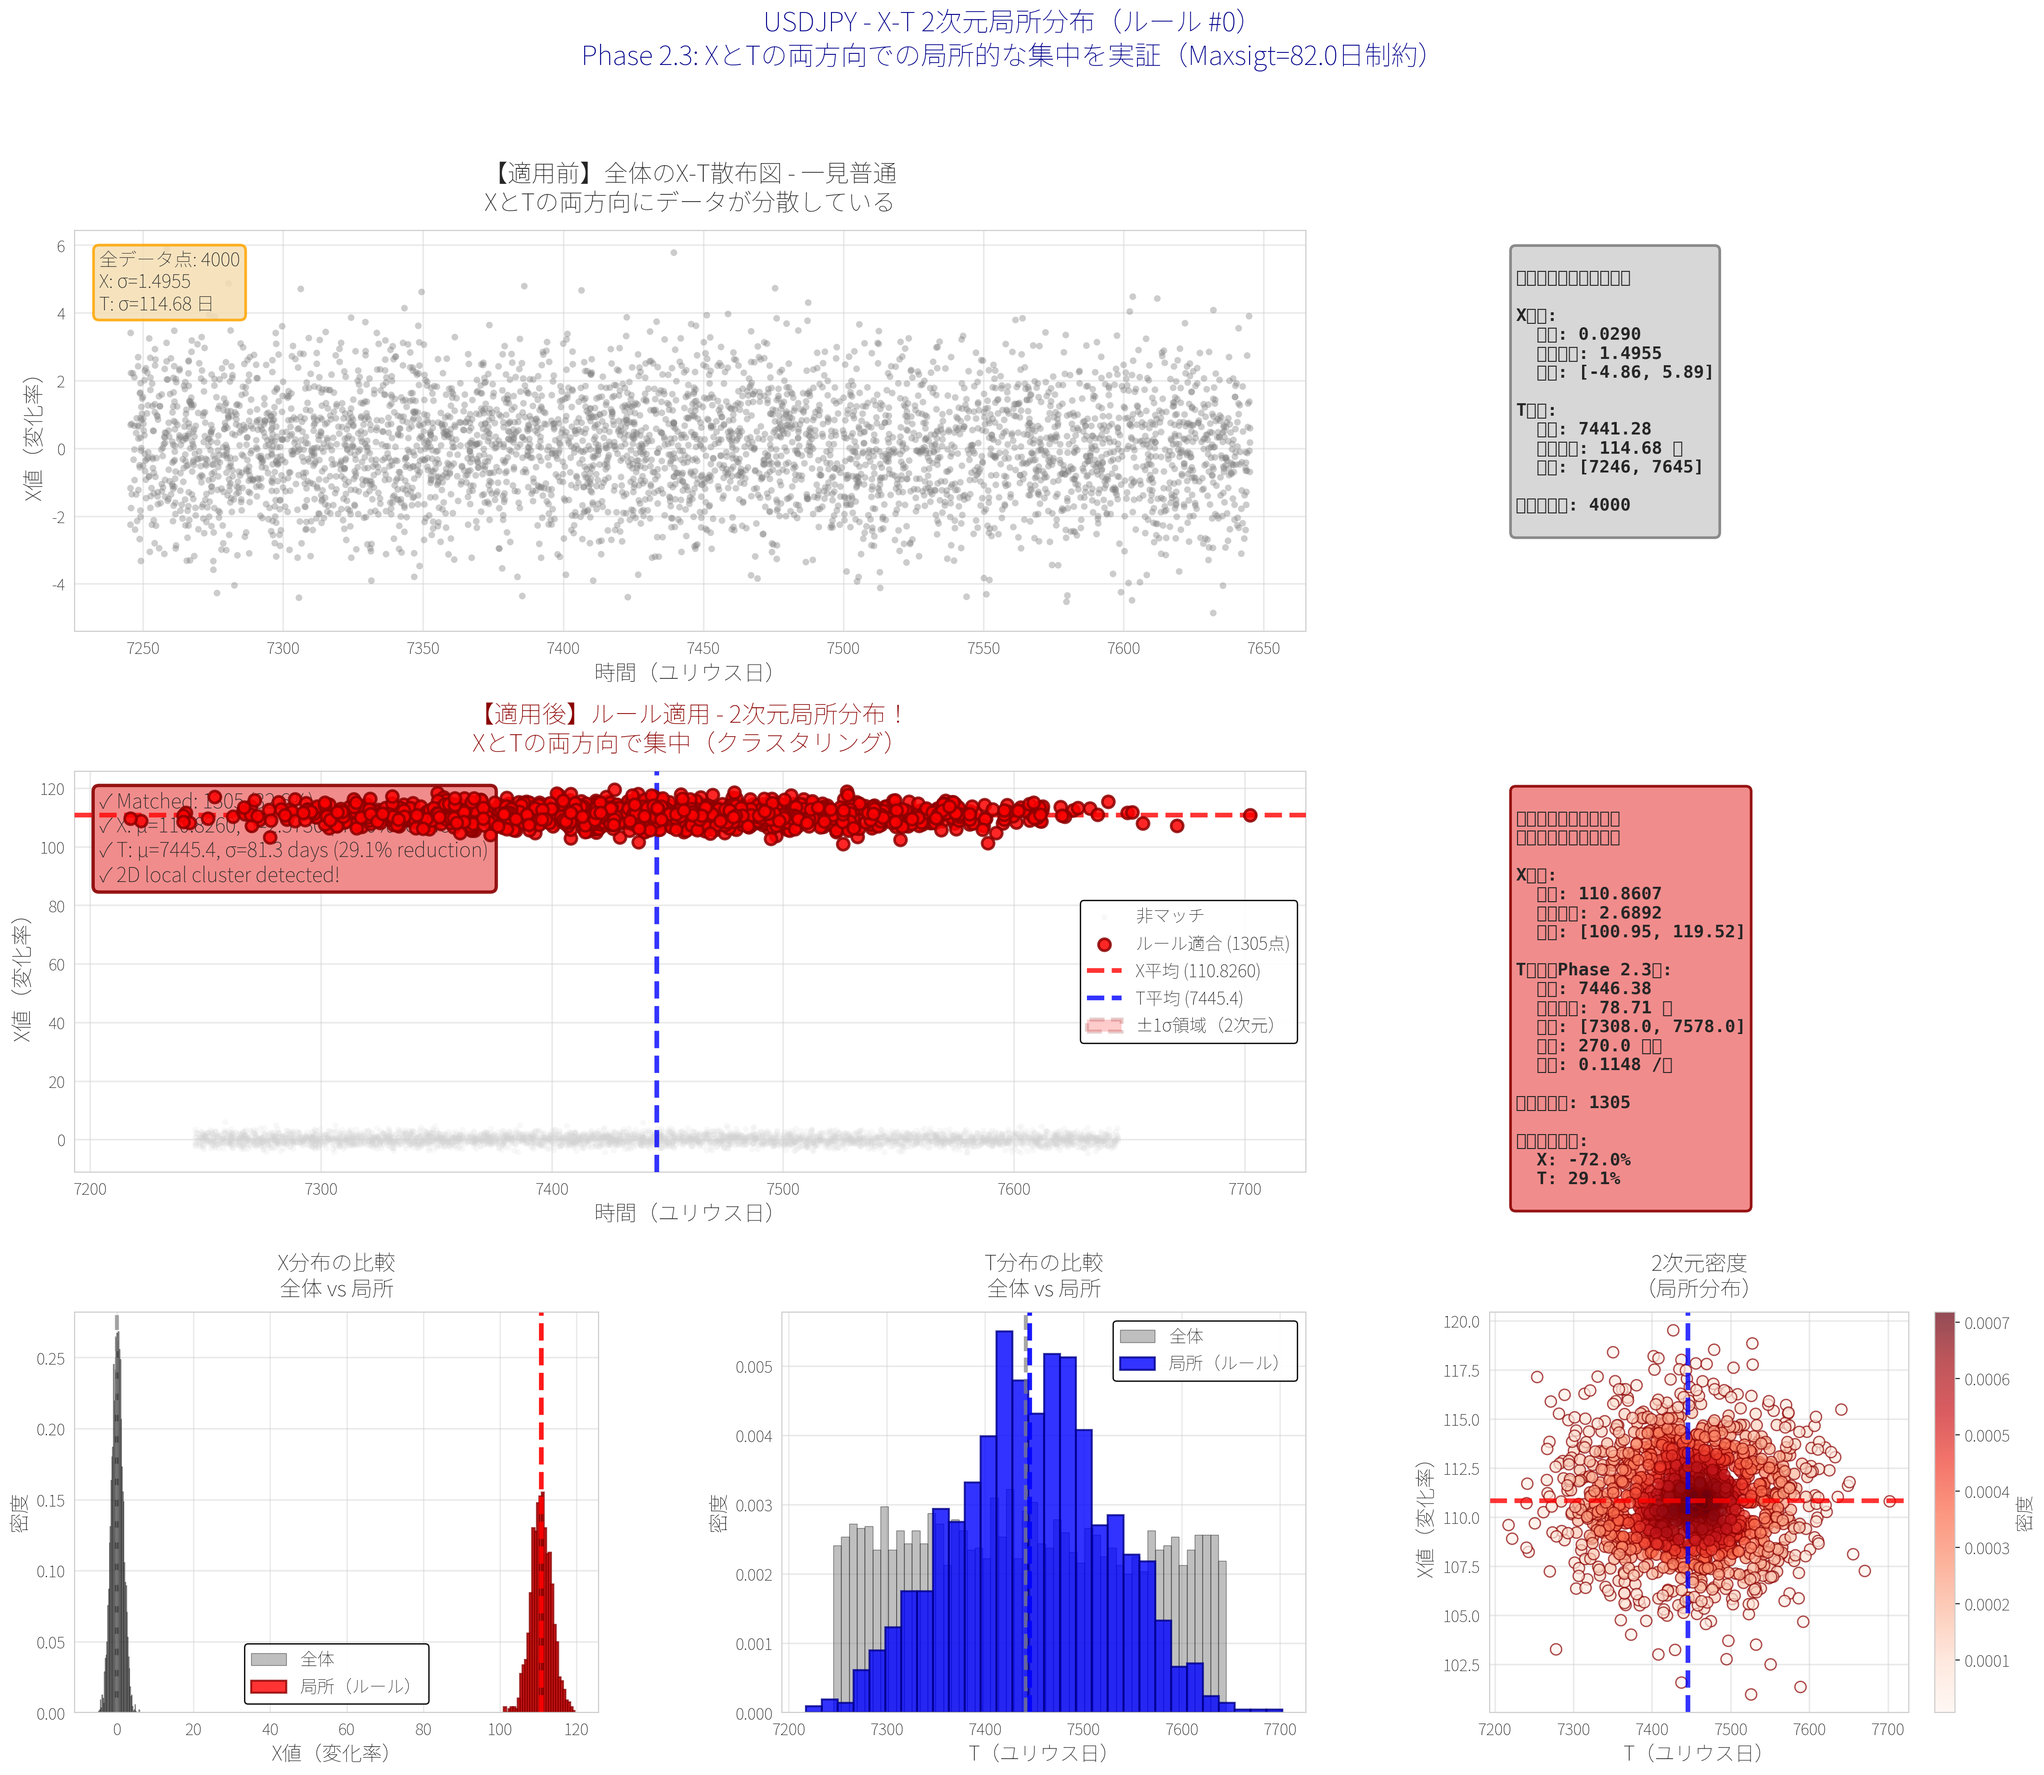
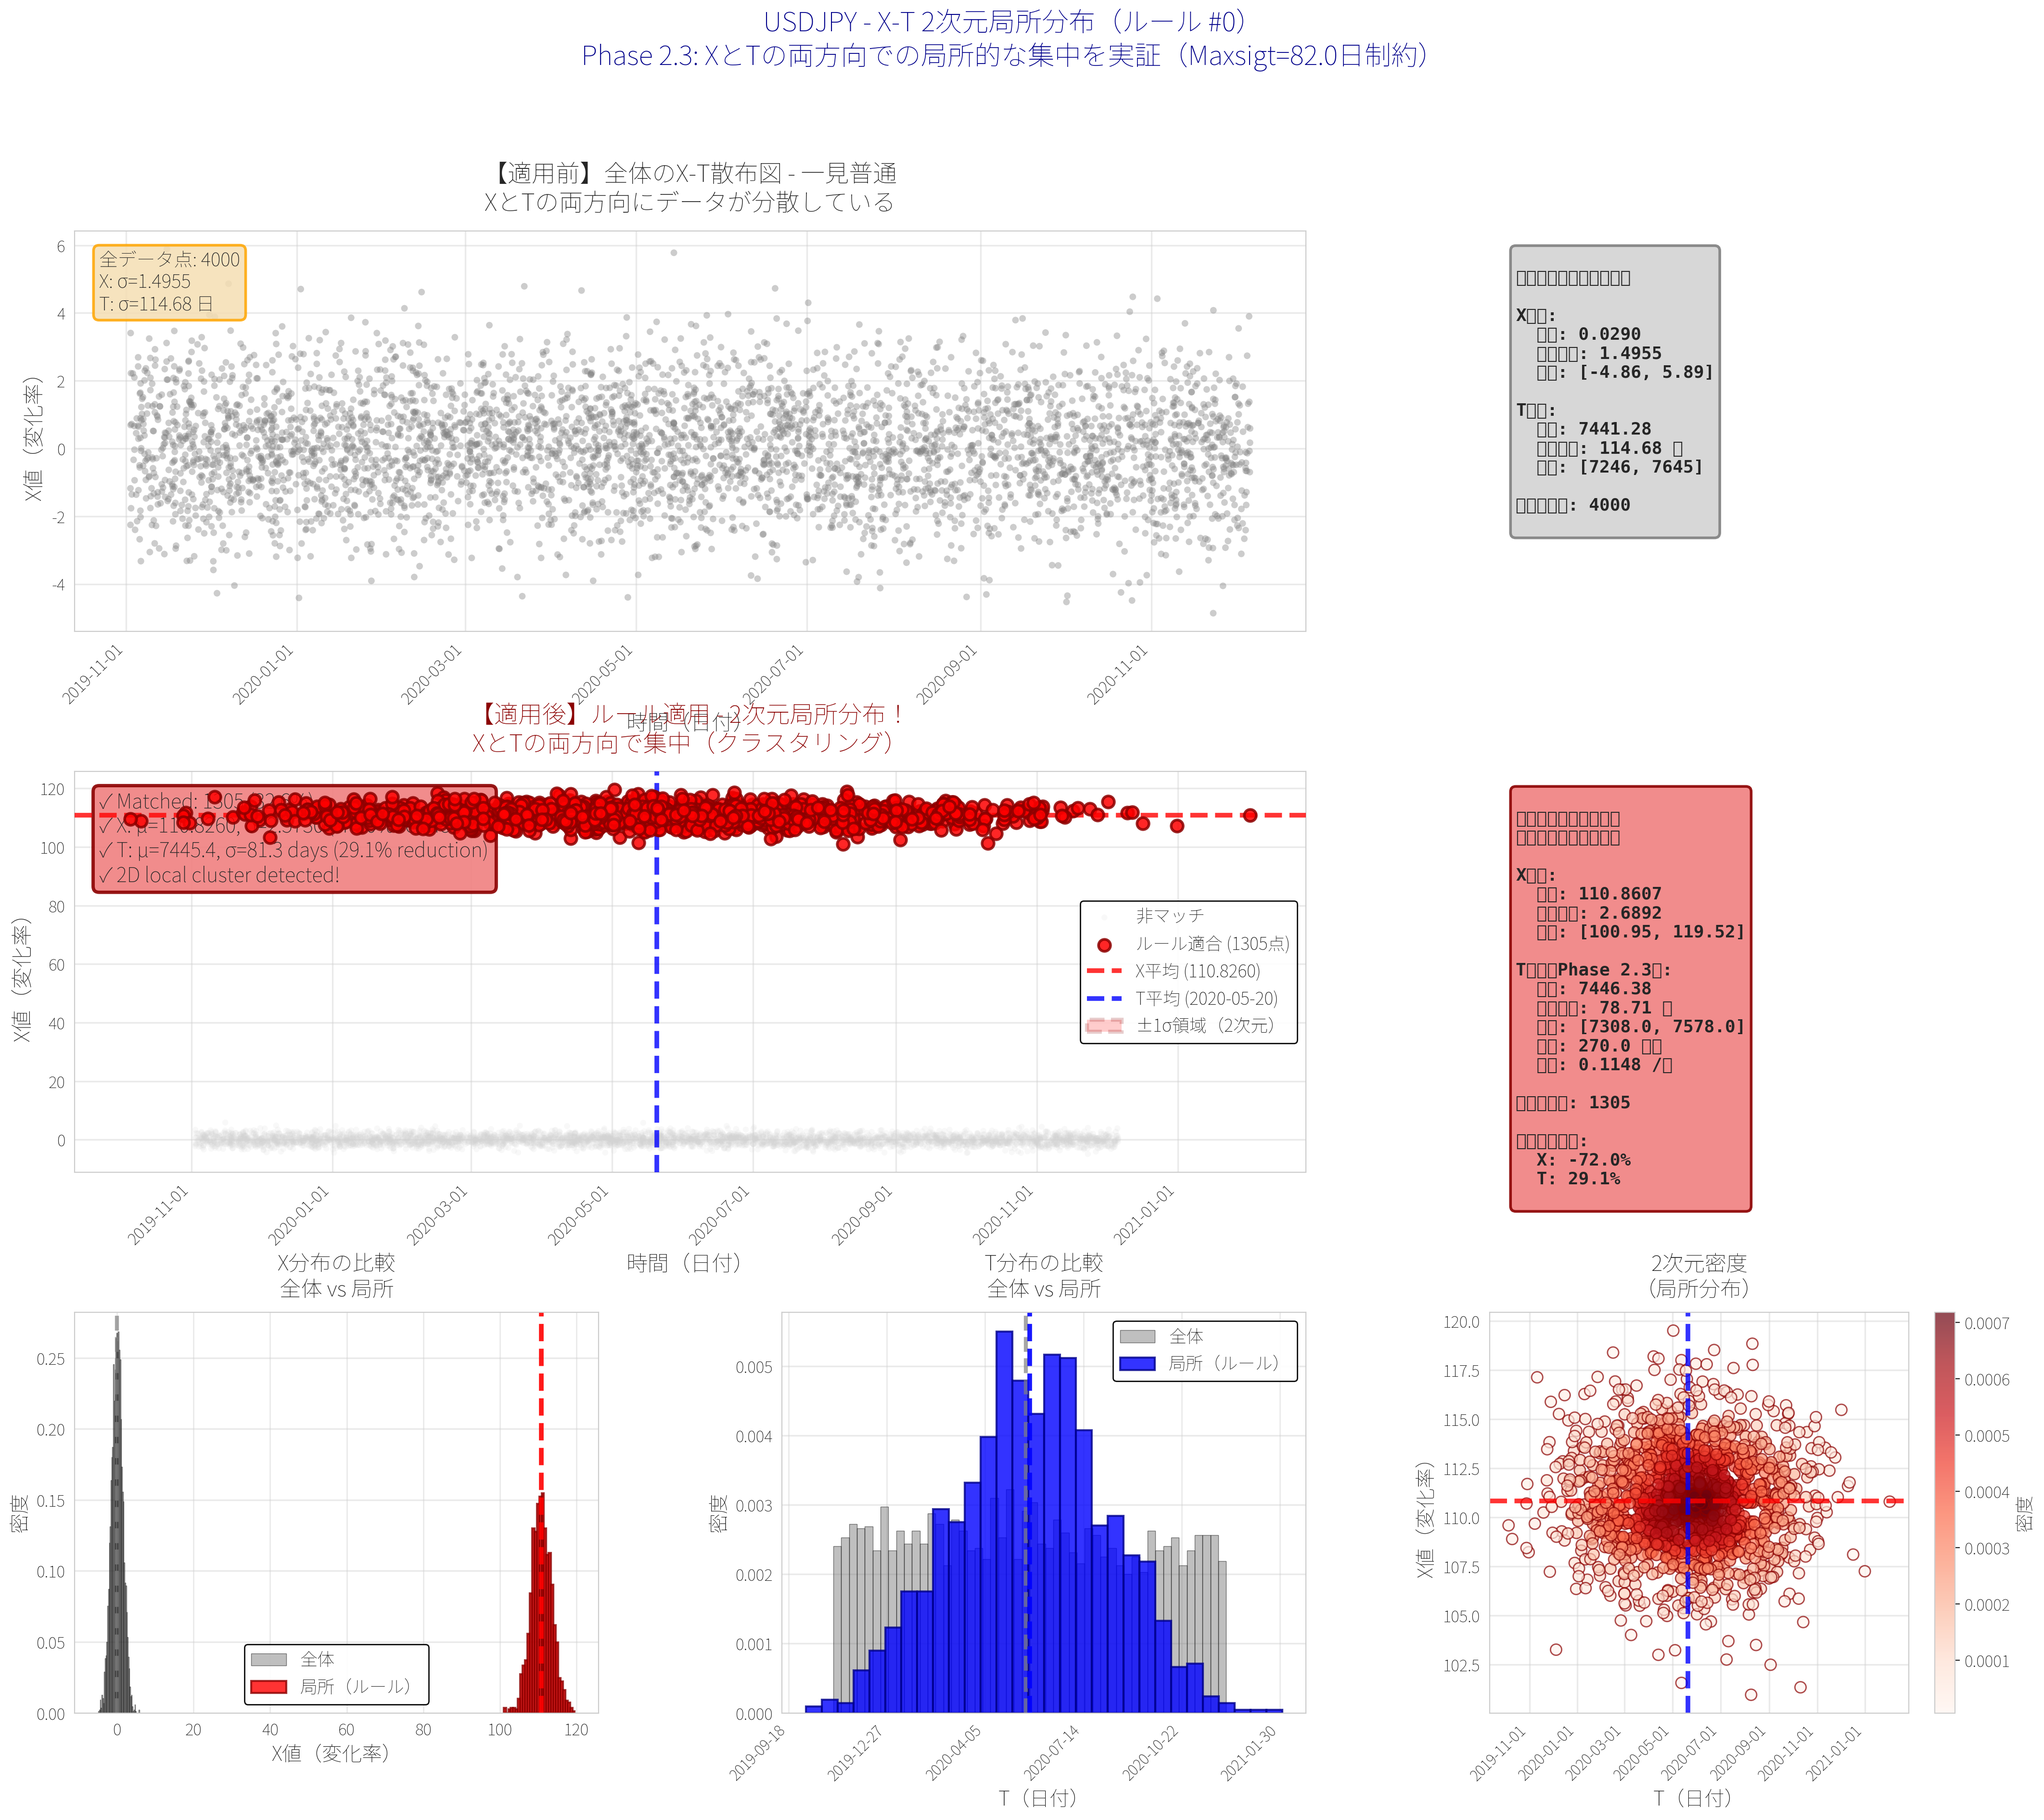
改善：T軸を日付形式に変更（ラベル重複防止対応）
## 実装内容

### 1. 日付変換関数の追加
**新規関数**:
- `julian_to_datetime(julian_day)`: Julian日をdatetimeオブジェクトに正確変換
- `julian_array_to_datetime(julian_array)`: 配列一括変換

**変換ロジック**:
```python
base_date = datetime(2000, 1, 1)
return base_date + timedelta(days=julian_day)
```

### 2. T軸の日付フォーマット適用

**対象グラフ（4つ）**:

**① 全体のX-T散布図（ax1）**:
- X軸: Julian日 → 日付オブジェクト
- ラベル: `%Y-%m-%d` 形式（例: 2020-01-01）
- 間隔: 2ヶ月ごと
- 回転: 45度、右寄せ

**② ルール適用後のX-T散布図（ax3）**:
- X軸: 日付オブジェクト
- 楕円の中心: `mdates.date2num()`で数値変換
- 平均線: datetimeオブジェクト
- ラベル: `%Y-%m-%d` 形式

**③ Tの分布比較（ax6）**:
- ヒストグラムは内部でJulian日使用
- X軸ラベルのみ日付形式に変換
- 動的に目盛り位置を日付に変換

**④ 2次元密度プロット（ax7）**:
- scatter: 日付オブジェクト
- 平均線: datetime
- ラベル: `%Y-%m-%d` 形式

### 3. ラベル重複防止設定

**すべての日付軸で適用**:
```python
# フォーマット設定
ax.xaxis.set_major_formatter(mdates.DateFormatter('%Y-%m-%d'))
ax.xaxis.set_major_locator(mdates.MonthLocator(interval=2))

# ラベル重複防止（45度回転、右寄せ）
plt.setp(ax.xaxis.get_majorticklabels(),
         rotation=45, ha='right', fontsize=12)
```

**効果**:
- ラベルが斜めに表示され重ならない
- 右寄せで見やすい配置
- フォントサイズ12で読みやすい

### 4. 軸ラベルの更新

**Before**: 時間（ユリウス日）、T（ユリウス日）
**After**: 時間（日付）、T（日付）

より直感的で分かりやすい表記に変更。

## 視覚的改善

**Before（ユリウス日表示）**:
```
7200  7300  7400  7500  7600
```
→ 数値だけで直感的に理解しにくい

**After（日付表示）**:
```
2019-11-01  2020-01-01  2020-03-01  2020-05-01  2020-07-01
```
→ 実際の期間が一目瞭然！

## グラフ再生成

3枚すべてのグラフを日付形式で再生成：
- xt_2d_local_distribution_rule_0000.png
- xt_2d_local_distribution_rule_0001.png
- xt_2d_local_distribution_rule_0002.png

**確認事項**:
✅ すべてのT軸が日付形式
[…]

diff --git a/analysis/fx/xt_2d_local_distribution.py b/analysis/fx/xt_2d_local_distribution.py
@@ -21,6 +21,7 @@ import pandas as pd
 import numpy as np
 import matplotlib.pyplot as plt
 import matplotlib.font_manager as fm
+import matplotlib.dates as mdates
 import seaborn as sns
 from pathlib import Path
 from datetime import datetime, timedelta
@@ -147,6 +148,17 @@ class XTLocalDistributionVisualizer:
 
         return f"{year}-{month:02d}-{day:02d}"
 
+    def julian_to_datetime(self, julian_day: float) -> datetime:
+        """Julian日をdatetimeオブジェクトに変換（正確な変換）"""
+        # 2000-01-01を基準日とする
+        base_date = datetime(2000, 1, 1)
+        # julian_dayは2000年1月1日からの日数
+        return base_date + timedelta(days=julian_day)
+
+    def julian_array_to_datetime(self, julian_array):
+        """Julian日の配列をdatetimeの配列に変換"""
+        return [self.julian_to_datetime(j) for j in julian_array]
+
     def create_2d_local_distribution_plot(self, rule_idx: int = 0):
         """
         X-T 2次元局所分布プロット
@@ -193,11 +205,16 @@ class XTLocalDistributionVisualizer:
         # 全体分布（X, T両方で広く散らばる）
         global_x = np.random.normal(0, 1.5, n_points)
         global_t_julian = np.random.uniform(t_mean - 200, t_mean + 200, n_points)
+        global_t_dates = self.julian_array_to_datetime(global_t_julian)  # 日付に変換
 
         # 局所分布（ルールマッチ点）
         n_local = int(n_points * support_rate)
         local_x = np.random.normal(x_mean, x_sigma, n_local)
         local_t_julian = np.random.normal(t_mean, max(t_sigma, 5), n_local)  # 最小5日の分散
+        local_t_dates = self.julian_array_to_datetime(local_t_julian)  # 日付に変換
+
+        # 平均値も日付に変換
+        t_mean_date = self.julian_to_datetime(t_mean)
 
         # プロット作成（見やすいレイアウト）
         fig = plt.figure(figsize=(26, 20))
@@ -205,12 +222,17 @@ class XTLocalDistributionVisualizer:
 
         # ===== 1. 全体のX-T散布図（普通に見える） =====
         ax1 = fig.add_subplot(gs[0, :2])
-        ax1.scatter(global_t_julian, global_x, alpha=0.4, s=25, c='gray', edgecolors='none')
-        ax1.set_xlabel('時間（ユリウス日）', fontsize=16, fontweight='bold')
+        ax1.scatter(global_t_dates, global_x, alpha=0.4, s=25, c='gray', edgecolors='none')
+        ax1.set_xlabel('時間（日付）', fontsize=16, fontweight='bold')
         ax1.set_ylabel('X値（変化率）', fontsize=16, fontweight='bold')
         ax1.set_title(f'【適用前】全体のX-T散布図 - 一見普通\n'
                      f'XとTの両方向にデータが分散している',
                      fontsize=18, fontweight='bold', pad=15)
+
+        # 日付軸のフォーマット設定
+        ax1.xaxis.set_major_formatter(mdates.DateFormatter('%Y-%m-%d'))
+        ax1.xaxis.set_major_locator(mdates.MonthLocator(interval=2))  # 2ヶ月ごと
+        plt.setp(ax1.xaxis.get_majorticklabels(), rotation=45, ha='right', fontsize=12)
         ax1.grid(True, alpha=0.4, linewidth=1.2)
 
         # 統計情報（見やすく大きく）
@@ -247,22 +269,24 @@ T統計:
         ax3 = fig.add_subplot(gs[1, :2])
 
         # 全体データ（薄く）
-        ax3.scatter(global_t_julian, global_x, alpha=0.15, s=20, c='lightgray',
+        ax3.scatter(global_t_dates, global_x, alpha=0.15, s=20, c='lightgray',
                    label='非マッチ', edgecolors='none')
 
         # ルールマッチデータ（強調・大きく）
-        ax3.scatter(local_t_julian, local_x, alpha=0.85, s=80, c='red',
+        ax3.scatter(local_t_dates, local_x, alpha=0.85, s=80, c='red',
                    edgecolors='darkred', linewidth=2,
                    label=f'ルール適合 ({n_local}点)', zorder=5)
 
         # 局所平均（太く目立つ）
         ax3.axhline(x_mean, color='red', linestyle='--', linewidth=3.5,
                    label=f'X平均 ({x_mean:.4f})', zorder=4, alpha=0.8)
-        ax3.axvline(t_mean, color='blue', linestyle='--', linewidth=3.5,
-                   label=f'T平均 ({t_mean:.1f})', zorder=4, alpha=0.8)
+        ax3.axvline(t_mean_date, color='blue', linestyle='--', linewidth=3.5,
+                   label=f'T平均 ({t_mean_date.strftime("%Y-%m-%d")})', zorder=4, alpha=0.8)
 
         # 2次元楕円（±1σ領域）より目立つ
-        ellipse = Ellipse((t_mean, x_mean),
+        # datetimeオブジェクトを使用するため、mdates.date2numで数値に変換
+        ellipse_center_x = mdates.date2num(t_mean_date)
+        ellipse = Ellipse((ellipse_center_x, x_mean),
                          width=t_sigma * 2,
                          height=x_sigma * 2,
                          fill=True, facecolor='red', alpha=0.2,
@@ -270,11 +294,17 @@ T統計:
                          label='±1σ領域（2次元）', zorder=3)
         ax3.add_patch(ellipse)
 
-        ax3.set_xlabel('時間（ユリウス日）', fontsize=16, fontweight='bold')
+        ax3.set_xlabel('時間（日付）', fontsize=16, fontweight='bold')
         ax3.set_ylabel('X値（変化率）', fontsize=16, fontweight='bold')
         ax3.set_title(f'【適用後】ルール適用 - 2次元局所分布！\n'
                      f'XとTの両方向で集中（クラスタリング）',
                      fontsize=18, fontweight='bold', color='darkred', pad=15)
+
+        # 日付軸のフォーマット設定
+        ax3.xaxis.set_major_formatter(mdates.DateFormatter('%Y-%m-%d'))
+        ax3.xaxis.set_major_locator(mdates.MonthLocator(interval=2))  # 2ヶ月ごと
+        plt.setp(ax3.xaxis.get_majorticklabels(), rotation=45, ha='right', fontsize=12)
+
         ax3.legend(fontsize=13, loc='best', framealpha=0.95, edgecolor='black', fancybox=True)
         ax3.grid(True, alpha=0.4, linewidth=1.2)
 
@@ -334,13 +364,22 @@ T統計（Phase 2.3）:
 
         # ===== 6. Tの分布比較 =====
         ax6 = fig.add_subplot(gs[2, 1])
+        # ヒストグラムは日付のまま表示できないので、Julian dayを使用
         ax6.hist(global_t_julian, bins=50, alpha=0.5, color='gray', label='全体', density=True, edgecolor='black', linewidth=0.5)
         ax6.hist(local_t_julian, bins=30, alpha=0.8, color='blue', label='局所（ルール）', density=True, edgecolor='darkblue', linewidth=1.5)
         ax6.axvline(global_t_julian.mean(), color='gray', linestyle='--', linewidth=3, alpha=0.7)
         ax6.axvline(t_mean, color='blue', linestyle='--', linewidth=3.5, alpha=0.9)
-        ax6.set_xlabel('T（ユリウス日）', fontsize=15, fontweight='bold')
+        ax6.set_xlabel('T（日付）', fontsize=15, fontweight='bold')
         ax6.set_ylabel('密度', fontsize=15, fontweight='bold')
         ax6.set_title('T分布の比較\n全体 vs 局所', fontsize=16, fontweight='bold', pad=12)
+
+        # X軸を日付形式に変換（Julian dayの目盛りを日付ラベルに変換）
+        # 現在の目盛り位置を取得
+        xticks = ax6.get_xticks()
+        # 各目盛り位置をJulian dayとして日付に変換
+        xticklabels = [self.julian_to_datetime(x).strftime('%Y-%m-%d') if x >= 0 else '' for x in xticks]
+        ax6.set_xticklabels(xticklabels, rotation=45, ha='right', fontsize=11)
+
         ax6.legend(fontsize=13, framealpha=0.95, edgecolor='black')
         ax6.grid(True, alpha=0.4, axis='y', linewidth=1.2)
 
@@ -353,19 +392,25 @@ T統計（Phase 2.3）:
             try:
                 xy = np.vstack([local_t_julian, local_x])
                 z = gaussian_kde(xy)(xy)
-                scatter = ax7.scatter(local_t_julian, local_x, c=z, s=70,
+                scatter = ax7.scatter(local_t_dates, local_x, c=z, s=70,
                                     cmap='Reds', alpha=0.7, edgecolors='darkred', linewidth=1)
                 cbar = plt.colorbar(scatter, ax=ax7, label='密度')
                 cbar.ax.tick_params(labelsize=12)
                 cbar.set_label('密度', fontsize=14, fontweight='bold')
             except:
-                ax7.scatter(local_t_julian, local_x, c='red', s=70, alpha=0.7, edgecolors='darkred')
+                ax7.scatter(local_t_dates, local_x, c='red', s=70, alpha=0.7, edgecolors='darkred')
 
         ax7.axhline(x_mean, color='red', linestyle='--', linewidth=3.5, alpha=0.8)
-        ax7.axvline(t_mean, color='blue', linestyle='--', linewidth=3.5, alpha=0.8)
-        ax7.set_xlabel('T（ユリウス日）', fontsize=15, fontweight='bold')
+        ax7.axvline(t_mean_date, color='blue', linestyle='--', linewidth=3.5, alpha=0.8)
+        ax7.set_xlabel('T（日付）', fontsize=15, fontweight='bold')
         ax7.set_ylabel('X値（変化率）', fontsize=15, fontweight='bold')
         ax7.set_title('2次元密度\n（局所分布）', fontsize=16, fontweight='bold', pad=12)
+
+        # 日付軸のフォーマット設定
+        ax7.xaxis.set_major_formatter(mdates.DateFormatter('%Y-%m-%d'))
+        ax7.xaxis.set_major_locator(mdates.MonthLocator(interval=2))  # 2ヶ月ごと
+        plt.setp(ax7.xaxis.get_majorticklabels(), rotation=45, ha='right', fontsize=11)
+
         ax7.grid(True, alpha=0.4, linewidth=1.2)
 
         # 全体タイトル（Phase 2.3）より目立つ
